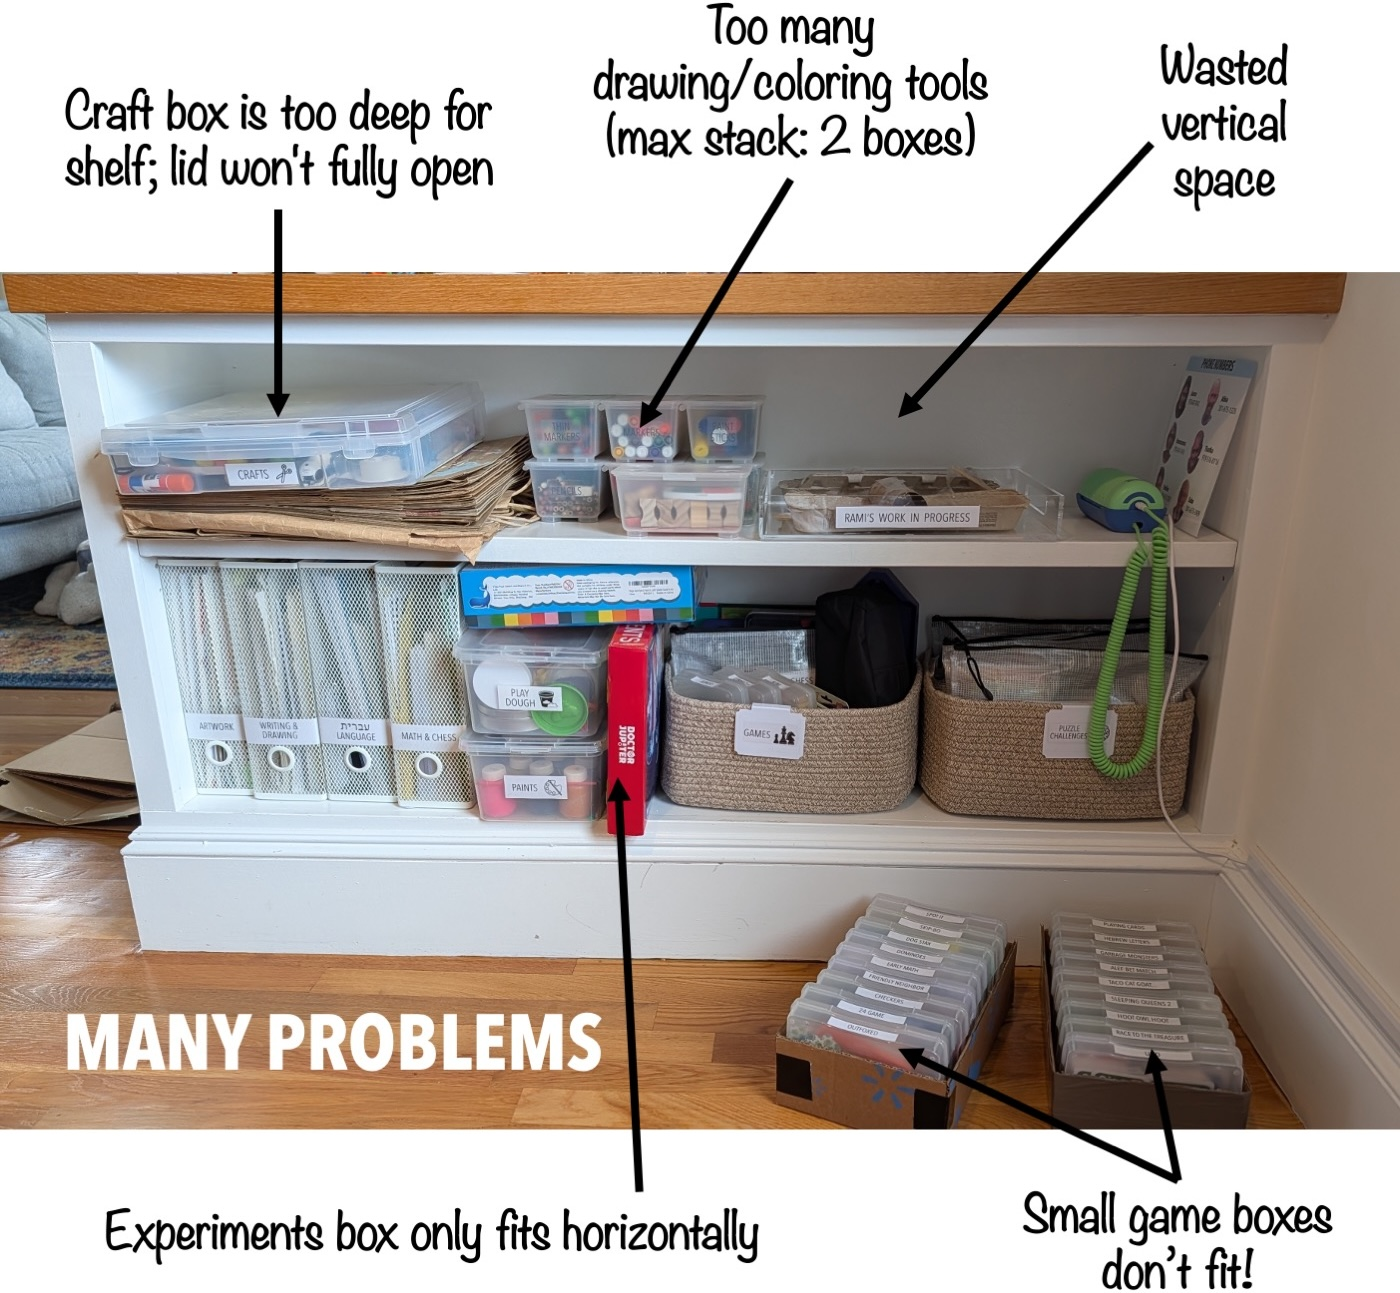
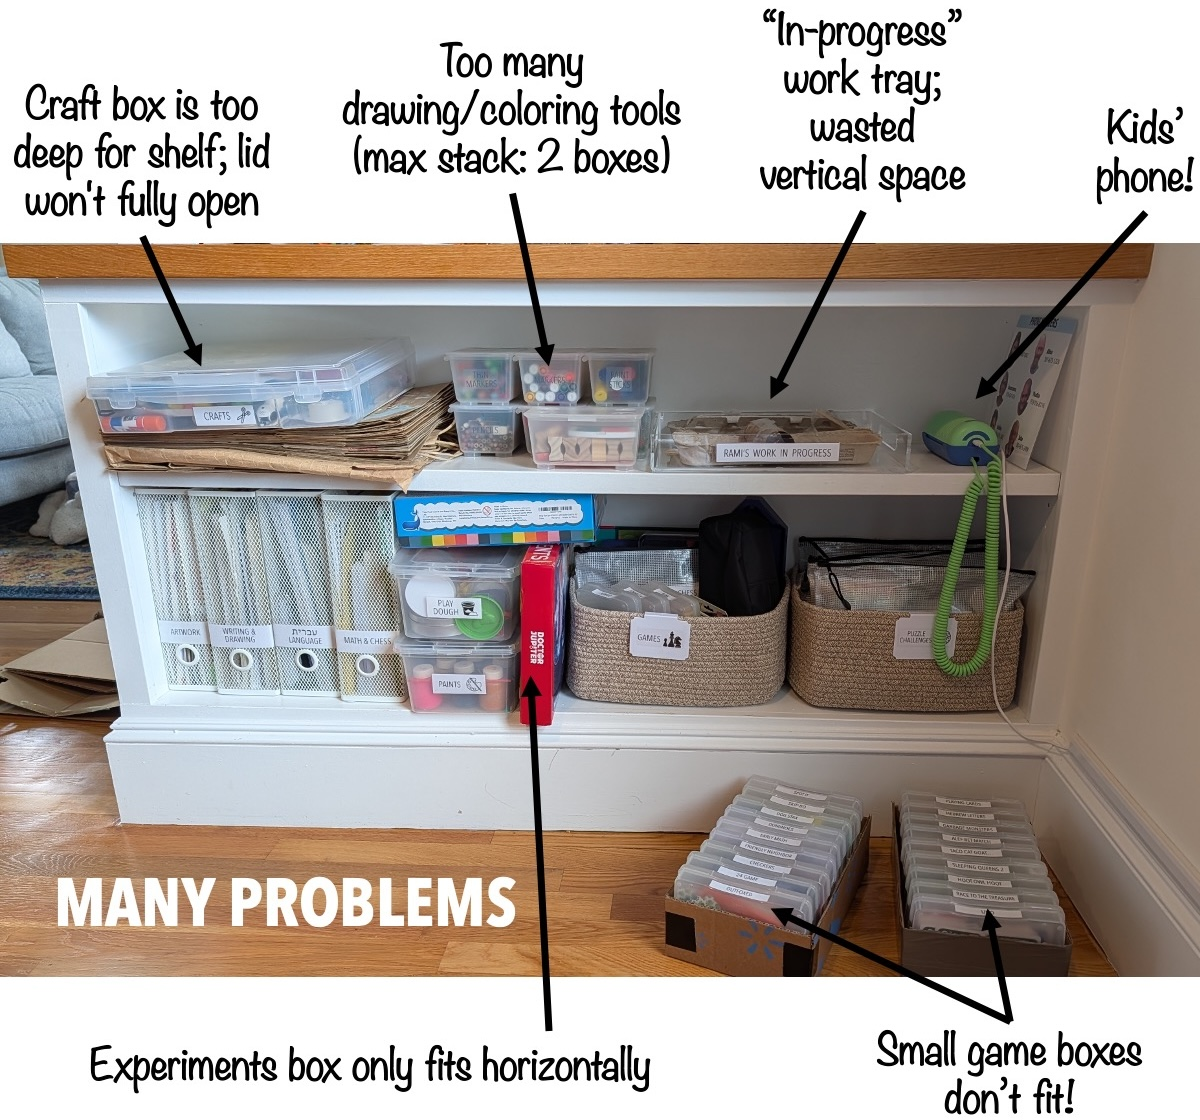
shorten

diff --git a/_posts/2026-05-30-bookshelf-evol.md b/_posts/2026-05-30-bookshelf-evol.md
@@ -11,6 +11,10 @@ tags: [bookshelf, pong wall, art storage, games storage, dining room, big kid de
 
 Kids grow. Interests evolve. New possessions arrive. Old habits disappear. :baby: :boy: :man: :man_beard: Our dining room pony-wall bookshelf has been (re)optimized so many times that a walk-through of notable versions is warranted. :crayon: :books: :game_die: Even perfectly organized spaces are never truly "finished" ! 
 
+**What's *special* about this shelf?** I designed this built-in when we realized that the post holding up our [cantilevered office loft](../2023-06-01-fireplace) was structural. This low half-wall shelf is :heavy_check_mark: kid accessible, :heavy_check_mark: adjacent to the spill-proof dining table, and :heavy_check_mark: near a sink and [broom](../2024-08-15-entry-closet) :broom: :soap:, meaning it's perfect for facilitating messy kid-tivities.
+
+**Jump ahead** to read about [our current organization system](#details), newly optimized for a 7- and 4-year-old! 
+
 ## Pony-Wall Bookcase: Initial Commit
 
 When we first moved in with our 6-month-old, we thought *books* were a perfectly reasonable thing to store on a *bookshelf*. :books:
@@ -21,19 +25,16 @@ When we first moved in with our 6-month-old, we thought *books* were a perfectly
 
 ![Bookshelf pulling up](../assets/img/bookshelf-pulling.jpg){: .mx-auto.d-block :}
 
-In the years after emptying the shelf, we ended up storing messy artwork supplies and toys and games that required supervision here. 
-
 ## First Revision: Art and Games
 
-In what felt like another blink, kiddo #2 had arrived and our older son's games were *not* baby-safe, and [the art supply stash was reaching critical overload](../2022-09-01-kids-artwork). :boom: :paintbrush: :orange_book: 
+In what felt like another blink, kiddo #2 had arrived. Our older son's games were *not* baby-safe, and [the art supply stash was reaching critical overload](../2022-09-01-kids-artwork). :boom: :paintbrush: :orange_book: 
 
-* **Constraint #1: Games have small pieces.** I needed to be sure that small game pieces could be easily put away and were stored in boxes that a preschooler could open but a baby could not. :jigsaw:  
-
-* **Constraint #2: Art is messy.** Stickers, paints, play dough, coloring books... :fearful: All of these activities needed to happen at the dining table, where spills wouldn't ruin rugs, a [broom was nearby](../2024-08-15-entry-closet), and the kitchen sink was steps away. :broom: :soap: 
+* **Constraint #1: Games have small pieces.** Games needed to be in toddler accessible (and put-away-able) but baby-proof boxes. :jigsaw:  
+* **Constraint #2: Art is messy.** Stickers, paints, play dough... :fearful: You understand.
 
 ![Bookshelf V1](../assets/img/bookshelf-v2.jpg){: .mx-auto.d-block :}
 
-**Magazine holder system.** Six [metal magazine holders](https://www.ikea.com/us/en/p/droenjoens-magazine-file-white-10439694/) became one of the more frequently modified components of our system:
+**Magazine holder system.** Six [metal magazine holders](https://www.ikea.com/us/en/p/droenjoens-magazine-file-white-10439694/) (baby proof! ...and indestructible) became one of the more frequently modified components of our system:
 
 | Version (Stage) | Added | Removed | 
 |---|---|---|
@@ -44,7 +45,7 @@ In what felt like another blink, kiddo #2 had arrived and our older son's games 
 
 *"Artwork" has been our only bin constant... I stuff the kids' art in here, and when it's finally too full, we play "keep or rid" to make space.* :bulb:
 
-## Next Chapter: Two Schoolkids 
+## Second Revision: Two Schoolkids 
 
 Fast-forward, and suddenly our younger kiddo starts public Montessori preschool at age 3 (yes, we are [*very lucky* to live in Cambridge](https://earlychildhoodcambridge.org/cpp/)) ! This came with new goodies and new challenges.
 
@@ -53,6 +54,8 @@ Fast-forward, and suddenly our younger kiddo starts public Montessori preschool 
 Here's how our pony-wall bookshelf is currently optimized: 
 
 ![Bookshelf current](../assets/img/bookshelf-v4.jpg){: .mx-auto.d-block :}
+
+## Details
 
 In a recurring theme (of life), solving one problem tends to create new problems: 
 
@@ -63,7 +66,7 @@ In a recurring theme (of life), solving one problem tends to create new problems
 
 ![Craft tools](../assets/img/craft-drawers-tools.jpg){: .mx-auto.d-block :}
 
-:point_up: **Craft Tools (top)** stores a [paper cutter](), [regular kid scissors](), [pattern scissors](), [glitter glue](), [Scotch tape](), a [mini stapler](), [glue sticks](), and [scratch notes](). :scissors:
+:point_up: **Craft Tools (top)** stores a [paper cutter](), [regular kid scissors](), [pattern scissors](), [hole punchers](), [glitter glue](), [Scotch tape](), a [mini stapler](), [glue sticks](), and [scratch notes](). :scissors:
 
 :point_down: **Craft "Bits" (bottom)** stores turnover items like beads, pom poms, stickers, pipe cleaners, and popsicle sticks. :thread: :yarn: 
 
@@ -91,16 +94,18 @@ In a recurring theme (of life), solving one problem tends to create new problems
 | ↳ ... :test_tube: No space for science experiments | :heavy_check_mark: Used a [monitor riser]() as a shelf and found smaller [click-shut craft boxes]() for play dough, paints, and experiments. | 
 
 ![New phone](../assets/img/phone-fix-1.jpg){: .mx-auto.d-block :}
-*We bought the [Tin Can]() so the kids could call family members (and memorize their phone numbers). Now, their friends are getting them, too, so they can call each other!*
+*We bought the [Tin Can]() so the kids could call family members (and memorize their phone numbers). Now, their friends are getting them, too, so they can call each other!* :phone: 
 
 ![Cloth bins](../assets/img/phone-fix-2.jpg){: .mx-auto.d-block :}
-*After decluttering unused games and moving others into the [office]() and [living room games cabinets](), I split the remaining bigger games into **partner/group games** (left [cloth bin]()) like Connect 4 and Chess, and **puzzle challenge games** (right), like [Gravity Maze](), [Laser Maze](), [Rush Hour](), [Happy Cube Pro](), [Chocolate Fix](), and [Pentanimo]().*
+*After decluttering unused games and moving others into the [office]() and [living room games cabinets](), I split the remaining bigger games into two [cloth bins](): **partner/group games** (e.g., Connect 4, Chess), and **puzzle challenge games** (e.g., [Gravity Maze](), [Laser Maze](), [Rush Hour](), [Happy Cube Pro](), [Chocolate Fix](), [Pentanimo]()).* :chess_pawn: :game_die: :black_joker:
 
 ![Monitor risers](../assets/img/phone-fix-3.jpg){: .mx-auto.d-block :}
-*Brown grocery bags are excellent art canvases, but they are an awkward size, and finding wide-enough "cabinet shelves" was impossible! I finally found a [computer monitor riser stand]() instead that worked perfectly as a shelf, so these [click-shut bins]() could be stored above.*
+*Paper grocery bags are excellent art canvases, but 18-inch "cabinet shelves" are impossible to find! We're using a [computer monitor riser stand]() to stack these new [click-shut bins]() above. Our [science experiments kit]() is fantastic and super exciting.* :alembic: :test_tube:
 
 ## Conclusion: Continuous Reorganization Required
 
-I always knew that the storage solutions I implement would eventually need to be updated. My previous blog posts describe [art solutions]() and [toy storage]() for little kids. I love finding new fixes to foster independence for our older kids, too ! The current snapshot again, soon to be updated, I'm sure: 
+I always knew that the storage solutions I implement will eventually need to be updated. My previous blog posts describe [art solutions]() and [toy storage]() for little kids. :baby: I love finding new fixes to foster independence for our older kids, too ! :boy: 
+
+*The current snapshot again (soon to be updated, I'm sure :wink:):*
 
 ![Bookshelf current](../assets/img/bookshelf-v4.jpg){: .mx-auto.d-block :}